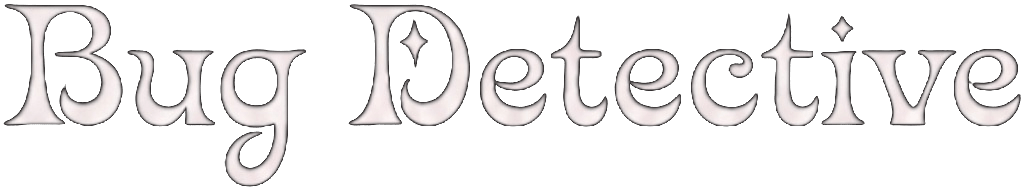
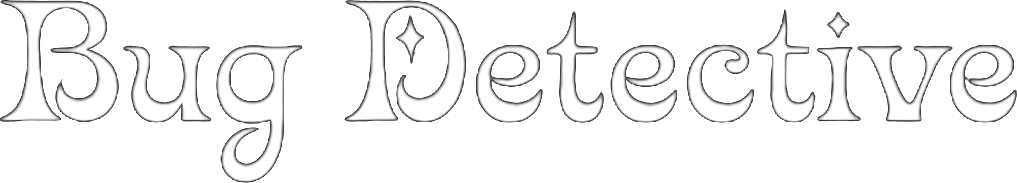
feat(profile): increase size, contrast, and visibility for Bug Detective title badge

Changed region(s): [[0.3353, 0.0, 1.0, 0.6831], [0.0, 0.0, 0.3048, 1.0]]

diff --git a/src/components/profile/SettingsModal.tsx b/src/components/profile/SettingsModal.tsx
@@ -852,11 +852,11 @@ export default function SettingsModal({ user: initialUser, onClose, onUpdate }: 
                         </div>
                         <div className="rounded-xl border border-white/10 bg-black/30 p-3">
                           <p className="text-[11px] text-slate-500">Current Title:</p>
-                          <div className="truncate text-sm font-bold text-white mt-0.5">
+                          <div className="truncate text-sm font-bold text-white mt-1">
                             {currentTitle.toLowerCase() === "bug detective" ? (
-                              <span className="inline-flex items-center gap-1.5 rounded-full px-2.5 py-0.5 border border-amber-300/40 bg-gradient-to-r from-[#181124] via-[#241538] to-[#140e21] text-amber-100 shadow-[0_0_12px_rgba(251,191,36,0.22)]">
-                                <img src="/icons/bug-detective.png" alt="Bug Detective Icon" className="h-4 w-4 object-contain shrink-0" />
-                                <img src="/titles/bug-detective-wordmark.png" alt="Bug Detective" className="h-3.5 object-contain" />
+                              <span className="inline-flex items-center gap-2 rounded-full px-3.5 py-1.5 border border-amber-300/60 bg-gradient-to-r from-[#1c132c] via-[#2e1b48] to-[#180f26] text-amber-100 shadow-[0_0_16px_rgba(251,191,36,0.3)]">
+                                <img src="/icons/bug-detective.png" alt="Bug Detective Icon" className="h-6 w-6 object-contain shrink-0 drop-shadow-[0_2px_4px_rgba(0,0,0,0.5)]" />
+                                <img src="/titles/bug-detective-wordmark.png" alt="Bug Detective" className="h-4.5 object-contain brightness-110 drop-shadow-[0_0_8px_rgba(255,255,255,0.4)]" />
                               </span>
                             ) : (
                               currentTitle
@@ -888,10 +888,10 @@ export default function SettingsModal({ user: initialUser, onClose, onUpdate }: 
                                         key={title}
                                         onClick={() => toggleTitle(title)}
                                         title={set ? `From completing ${set}` : "Earned"}
-                                        className={`inline-flex items-center gap-1.5 rounded-lg border px-3 py-1.5 text-[11px] font-bold uppercase tracking-wider transition ${
+                                        className={`inline-flex items-center gap-2 rounded-lg border px-3.5 py-2 text-[11px] font-bold uppercase tracking-wider transition ${
                                           on
                                             ? isBugDetective
-                                              ? "border-amber-300/60 bg-amber-950/40 text-amber-200 shadow-[0_0_12px_rgba(251,191,36,0.25)]"
+                                              ? "border-amber-300/70 bg-amber-950/50 text-amber-200 shadow-[0_0_14px_rgba(251,191,36,0.35)]"
                                               : at === 0
                                               ? "border-amber-400/50 bg-amber-500/10 text-amber-300"
                                               : "border-violet-400/50 bg-violet-500/10 text-violet-200"
@@ -900,9 +900,9 @@ export default function SettingsModal({ user: initialUser, onClose, onUpdate }: 
                                       >
                                         {on && <span className="font-mono text-[10px] opacity-80">{at + 1}</span>}
                                         {isBugDetective ? (
-                                          <span className="inline-flex items-center gap-1.5">
-                                            <img src="/icons/bug-detective.png" alt="Bug Detective" className="h-3.5 w-3.5 object-contain shrink-0" />
-                                            <img src="/titles/bug-detective-wordmark.png" alt="Bug Detective" className="h-3 object-contain" />
+                                          <span className="inline-flex items-center gap-2">
+                                            <img src="/icons/bug-detective.png" alt="Bug Detective" className="h-5 w-5 object-contain shrink-0" />
+                                            <img src="/titles/bug-detective-wordmark.png" alt="Bug Detective" className="h-4 object-contain brightness-110 drop-shadow-[0_0_6px_rgba(255,255,255,0.35)]" />
                                           </span>
                                         ) : (
                                           title

diff --git a/src/components/profile/UserBadges.tsx b/src/components/profile/UserBadges.tsx
@@ -100,20 +100,20 @@ export function TitleChips({
           return (
             <span
               key={t}
-              className={`inline-flex items-center gap-1.5 rounded-full ${
-                size === "md" ? "px-3 py-1 text-xs" : "px-2 py-0.5 text-[10px]"
-              } font-black tracking-wider whitespace-nowrap border border-amber-300/40 bg-gradient-to-r from-[#181124] via-[#241538] to-[#140e21] text-amber-100 shadow-[0_0_14px_rgba(251,191,36,0.22)]`}
+              className={`inline-flex items-center gap-2 rounded-full ${
+                size === "md" ? "px-4 py-1.5 min-h-[34px]" : "px-2.5 py-1 min-h-[26px]"
+              } font-black tracking-wider whitespace-nowrap border border-amber-300/60 bg-gradient-to-r from-[#1c132c] via-[#2e1b48] to-[#180f26] text-amber-100 shadow-[0_0_18px_rgba(251,191,36,0.3)] transition-transform duration-200 hover:scale-105`}
               title="Bug Detective"
             >
               <img
                 src="/icons/bug-detective.png"
                 alt="Bug Detective Icon"
-                className={size === "md" ? "h-5 w-5 object-contain -my-1 shrink-0" : "h-3.5 w-3.5 object-contain -my-0.5 shrink-0"}
+                className={size === "md" ? "h-7 w-7 object-contain -my-1.5 shrink-0 drop-shadow-[0_2px_4px_rgba(0,0,0,0.5)]" : "h-5 w-5 object-contain -my-1 shrink-0"}
               />
               <img
                 src="/titles/bug-detective-wordmark.png"
                 alt="Bug Detective"
-                className={size === "md" ? "h-4 object-contain" : "h-3 object-contain"}
+                className={size === "md" ? "h-5 sm:h-5.5 object-contain brightness-110 drop-shadow-[0_0_8px_rgba(255,255,255,0.4)]" : "h-3.5 sm:h-4 object-contain brightness-110 drop-shadow-[0_0_6px_rgba(255,255,255,0.35)]"}
               />
             </span>
           );
@@ -200,7 +200,7 @@ export function UserBadgesCompact({
               key={t}
               title="Bug Detective"
               aria-label="Bug Detective"
-              className="grid h-5 w-5 shrink-0 place-items-center rounded-md border border-amber-400/40 bg-amber-500/20 p-0.5"
+              className="grid h-6 w-6 shrink-0 place-items-center rounded-md border border-amber-400/50 bg-amber-500/25 p-0.5 shadow-[0_0_10px_rgba(251,191,36,0.3)]"
             >
               <img src="/icons/bug-detective.png" alt="Bug Detective" className="h-full w-full object-contain" />
             </span>
@@ -306,20 +306,20 @@ export default function UserBadges({
           return (
             <span
               key={t}
-              className={`inline-flex items-center gap-1.5 rounded-full ${
-                size === "md" ? "px-3 py-1 text-xs" : "px-2 py-0.5 text-[10px]"
-              } font-black tracking-wider whitespace-nowrap border border-amber-300/40 bg-gradient-to-r from-[#181124] via-[#241538] to-[#140e21] text-amber-100 shadow-[0_0_14px_rgba(251,191,36,0.22)] ${className}`}
+              className={`inline-flex items-center gap-2 rounded-full ${
+                size === "md" ? "px-4 py-1.5 min-h-[34px]" : "px-2.5 py-1 min-h-[26px]"
+              } font-black tracking-wider whitespace-nowrap border border-amber-300/60 bg-gradient-to-r from-[#1c132c] via-[#2e1b48] to-[#180f26] text-amber-100 shadow-[0_0_18px_rgba(251,191,36,0.3)] transition-transform duration-200 hover:scale-105 ${className}`}
               title="Bug Detective"
             >
               <img
                 src="/icons/bug-detective.png"
                 alt="Bug Detective Icon"
-                className={size === "md" ? "h-5 w-5 object-contain -my-1 shrink-0" : "h-3.5 w-3.5 object-contain -my-0.5 shrink-0"}
+                className={size === "md" ? "h-7 w-7 object-contain -my-1.5 shrink-0 drop-shadow-[0_2px_4px_rgba(0,0,0,0.5)]" : "h-5 w-5 object-contain -my-1 shrink-0"}
               />
               <img
                 src="/titles/bug-detective-wordmark.png"
                 alt="Bug Detective"
-                className={size === "md" ? "h-4 object-contain" : "h-3 object-contain"}
+                className={size === "md" ? "h-5 sm:h-5.5 object-contain brightness-110 drop-shadow-[0_0_8px_rgba(255,255,255,0.4)]" : "h-3.5 sm:h-4 object-contain brightness-110 drop-shadow-[0_0_6px_rgba(255,255,255,0.35)]"}
               />
             </span>
           );

diff --git a/src/components/profile/TitleRack.tsx b/src/components/profile/TitleRack.tsx
@@ -130,12 +130,12 @@ export default function TitleRack({ userId, isMine, onChange, version }: {
                     initial={{ opacity: 0, y: 6 }}
                     animate={{ opacity: 1, y: 0 }}
                     transition={{ delay: i * 0.05 }}
-                    className="inline-flex items-center gap-2 px-3.5 py-1.5 text-[11px] font-black uppercase tracking-[0.18em] border border-amber-300/40 bg-gradient-to-r from-[#181124] via-[#241538] to-[#140e21] text-amber-100 shadow-[0_0_14px_rgba(251,191,36,0.22)]"
+                    className="inline-flex items-center gap-2.5 px-4 py-2 min-h-[38px] text-[11px] font-black uppercase tracking-[0.18em] border border-amber-300/60 bg-gradient-to-r from-[#1c132c] via-[#2e1b48] to-[#180f26] text-amber-100 shadow-[0_0_20px_rgba(251,191,36,0.35)] rounded-lg transition-transform hover:scale-105"
                     style={{ clipPath: notch(8) }}
                     title="Bug Detective"
                   >
-                    <img src="/icons/bug-detective.png" alt="Bug Detective" className="h-4 w-4 object-contain -my-1 shrink-0" />
-                    <img src="/titles/bug-detective-wordmark.png" alt="Bug Detective" className="h-3.5 object-contain" />
+                    <img src="/icons/bug-detective.png" alt="Bug Detective" className="h-7 w-7 object-contain -my-1 shrink-0 drop-shadow-[0_2px_4px_rgba(0,0,0,0.5)]" />
+                    <img src="/titles/bug-detective-wordmark.png" alt="Bug Detective" className="h-5.5 object-contain brightness-110 drop-shadow-[0_0_8px_rgba(255,255,255,0.4)]" />
                   </motion.span>
                 );
               }
@@ -172,18 +172,18 @@ export default function TitleRack({ userId, isMine, onChange, version }: {
                   return (
                     <button key={title} onClick={() => toggle(title)}
                       title={set ? `From completing ${set}` : "Earned"}
-                      className="inline-flex items-center gap-1.5 px-3.5 py-1.5 text-[11px] font-black uppercase tracking-[0.16em] transition hover:brightness-115"
+                      className="inline-flex items-center gap-2 px-3.5 py-2 text-[11px] font-black uppercase tracking-[0.16em] transition hover:brightness-115"
                       style={{
                         clipPath: notch(8),
                         color: on ? (at === 0 ? "#fcd34d" : ACCENT_LIT) : "#64748b",
-                        background: on ? (isBugDetective ? "rgba(36,21,56,.4)" : "rgba(162,116,255,.14)") : "rgba(255,255,255,.03)",
-                        boxShadow: `inset 0 0 0 1px ${on ? (isBugDetective ? "rgba(251,191,36,.55)" : "rgba(162,116,255,.55)") : "rgba(255,255,255,.09)"}`,
+                        background: on ? (isBugDetective ? "rgba(44,26,72,.6)" : "rgba(162,116,255,.14)") : "rgba(255,255,255,.03)",
+                        boxShadow: `inset 0 0 0 1px ${on ? (isBugDetective ? "rgba(251,191,36,.65)" : "rgba(162,116,255,.55)") : "rgba(255,255,255,.09)"}`,
                       }}>
                       {on && <span className="font-mono text-[10px] opacity-80">{at + 1}</span>}
                       {isBugDetective ? (
                         <span className="inline-flex items-center gap-1.5">
-                          <img src="/icons/bug-detective.png" alt="Bug Detective" className="h-3.5 w-3.5 object-contain" />
-                          <img src="/titles/bug-detective-wordmark.png" alt="Bug Detective" className="h-3 object-contain" />
+                          <img src="/icons/bug-detective.png" alt="Bug Detective" className="h-5 w-5 object-contain shrink-0" />
+                          <img src="/titles/bug-detective-wordmark.png" alt="Bug Detective" className="h-4 object-contain brightness-110 drop-shadow-[0_0_6px_rgba(255,255,255,0.35)]" />
                         </span>
                       ) : (
                         title

diff --git a/src/app/user/[username]/page.tsx b/src/app/user/[username]/page.tsx
@@ -566,7 +566,7 @@ export default function PublicProfilePage() {
                   rack has not answered yet — falling back to profileUser then
                   avoids a flash of no titles on load. */}
               <TitleChips
-                user={wornTitles ? { equippedTitles: wornTitles } : profileUser}
+                user={wornTitles ? { ...profileUser, equippedTitles: wornTitles } : profileUser}
                 size="md"
                 max={3}
               />
